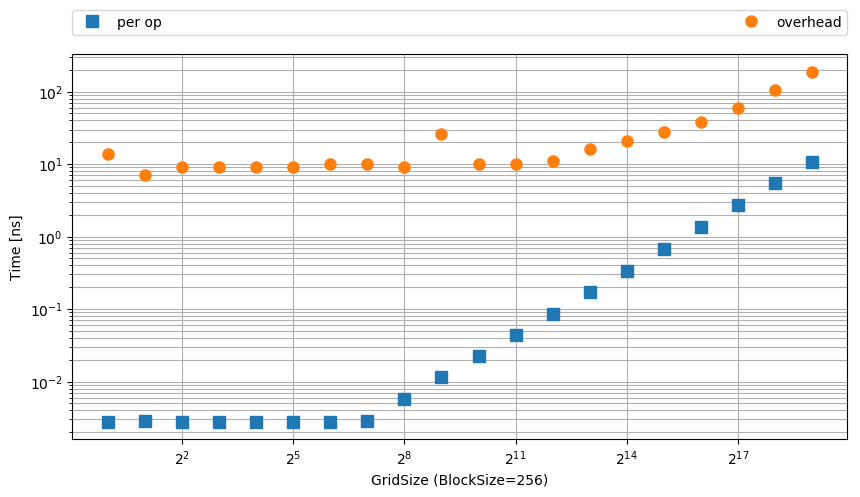
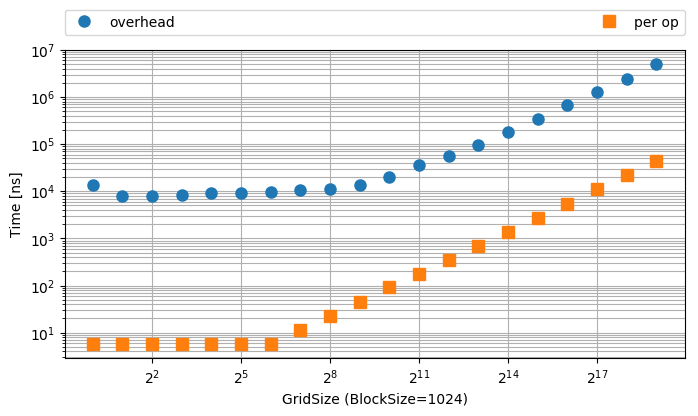
Update result

diff --git a/README.md b/README.md
@@ -11,26 +11,26 @@ make
 ![result](./result.png)
 
 ```
-[GridSize =        1, BlockSize = 256] elapsed time A :      105 [ns], elapsed time B :     3038 [ns], time/op : 2.797127e-03 [ns], launch overhead :  14 [ns]
-[GridSize =        2, BlockSize = 256] elapsed time A :       99 [ns], elapsed time B :     3048 [ns], time/op : 2.812386e-03 [ns], launch overhead :   7 [ns]
-[GridSize =        4, BlockSize = 256] elapsed time A :      100 [ns], elapsed time B :     3038 [ns], time/op : 2.801895e-03 [ns], launch overhead :   9 [ns]
-[GridSize =        8, BlockSize = 256] elapsed time A :      100 [ns], elapsed time B :     3037 [ns], time/op : 2.800941e-03 [ns], launch overhead :   9 [ns]
-[GridSize =       16, BlockSize = 256] elapsed time A :      100 [ns], elapsed time B :     3038 [ns], time/op : 2.801895e-03 [ns], launch overhead :   9 [ns]
-[GridSize =       32, BlockSize = 256] elapsed time A :      100 [ns], elapsed time B :     3038 [ns], time/op : 2.801895e-03 [ns], launch overhead :   9 [ns]
-[GridSize =       64, BlockSize = 256] elapsed time A :      101 [ns], elapsed time B :     3038 [ns], time/op : 2.800941e-03 [ns], launch overhead :  10 [ns]
-[GridSize =      128, BlockSize = 256] elapsed time A :      103 [ns], elapsed time B :     3108 [ns], time/op : 2.865791e-03 [ns], launch overhead :  10 [ns]
-[GridSize =      256, BlockSize = 256] elapsed time A :      196 [ns], elapsed time B :     6201 [ns], time/op : 5.726814e-03 [ns], launch overhead :   9 [ns]
-[GridSize =      512, BlockSize = 256] elapsed time A :      399 [ns], elapsed time B :    12351 [ns], time/op : 1.139832e-02 [ns], launch overhead :  26 [ns]
-[GridSize =     1024, BlockSize = 256] elapsed time A :      756 [ns], elapsed time B :    24639 [ns], time/op : 2.277660e-02 [ns], launch overhead :  10 [ns]
-[GridSize =     2048, BlockSize = 256] elapsed time A :     1469 [ns], elapsed time B :    48169 [ns], time/op : 4.453659e-02 [ns], launch overhead :  10 [ns]
-[GridSize =     4096, BlockSize = 256] elapsed time A :     2846 [ns], elapsed time B :    93580 [ns], time/op : 8.653069e-02 [ns], launch overhead :  11 [ns]
-[GridSize =     8192, BlockSize = 256] elapsed time A :     5611 [ns], elapsed time B :   184660 [ns], time/op : 1.707544e-01 [ns], launch overhead :  16 [ns]
-[GridSize =    16384, BlockSize = 256] elapsed time A :    11141 [ns], elapsed time B :   366986 [ns], time/op : 3.393602e-01 [ns], launch overhead :  21 [ns]
-[GridSize =    32768, BlockSize = 256] elapsed time A :    22245 [ns], elapsed time B :   733195 [ns], time/op : 6.780148e-01 [ns], launch overhead :  28 [ns]
-[GridSize =    65536, BlockSize = 256] elapsed time A :    44448 [ns], elapsed time B :  1465589 [ns], time/op : 1.355306e+00 [ns], launch overhead :  38 [ns]
-[GridSize =   131072, BlockSize = 256] elapsed time A :    88857 [ns], elapsed time B :  2930381 [ns], time/op : 2.709888e+00 [ns], launch overhead :  60 [ns]
-[GridSize =   262144, BlockSize = 256] elapsed time A :   177676 [ns], elapsed time B :  5859977 [ns], time/op : 5.419065e+00 [ns], launch overhead : 105 [ns]
-[GridSize =   524288, BlockSize = 256] elapsed time A :   355263 [ns], elapsed time B : 11717645 [ns], time/op : 1.083601e+01 [ns], launch overhead : 189 [ns]
+[GridSize =        1, BlockSize = 1024] elapsed time A :          200661 [ns], elapsed time B :         6181063 [ns], time/op : 5.703356e+00 [ns], launch overhead :   13774 [ns]
+[GridSize =        2, BlockSize = 1024] elapsed time A :          195098 [ns], elapsed time B :         6180184 [ns], time/op : 5.707823e+00 [ns], launch overhead :    8065 [ns]
+[GridSize =        4, BlockSize = 1024] elapsed time A :          194970 [ns], elapsed time B :         6180778 [ns], time/op : 5.708511e+00 [ns], launch overhead :    7914 [ns]
+[GridSize =        8, BlockSize = 1024] elapsed time A :          195657 [ns], elapsed time B :         6189285 [ns], time/op : 5.715969e+00 [ns], launch overhead :    8357 [ns]
+[GridSize =       16, BlockSize = 1024] elapsed time A :          196238 [ns], elapsed time B :         6185150 [ns], time/op : 5.711472e+00 [ns], launch overhead :    9085 [ns]
+[GridSize =       32, BlockSize = 1024] elapsed time A :          196042 [ns], elapsed time B :         6181559 [ns], time/op : 5.708234e+00 [ns], launch overhead :    8995 [ns]
+[GridSize =       64, BlockSize = 1024] elapsed time A :          196492 [ns], elapsed time B :         6182438 [ns], time/op : 5.708643e+00 [ns], launch overhead :    9432 [ns]
+[GridSize =      128, BlockSize = 1024] elapsed time A :          384410 [ns], elapsed time B :        12353173 [ns], time/op : 1.141430e+01 [ns], launch overhead :   10387 [ns]
+[GridSize =      256, BlockSize = 1024] elapsed time A :          759167 [ns], elapsed time B :        24694637 [ns], time/op : 2.282664e+01 [ns], launch overhead :   11184 [ns]
+[GridSize =      512, BlockSize = 1024] elapsed time A :         1509585 [ns], elapsed time B :        49379229 [ns], time/op : 4.565205e+01 [ns], launch overhead :   13659 [ns]
+[GridSize =     1024, BlockSize = 1024] elapsed time A :         3011799 [ns], elapsed time B :        98746611 [ns], time/op : 9.129983e+01 [ns], launch overhead :   20087 [ns]
+[GridSize =     2048, BlockSize = 1024] elapsed time A :         5832887 [ns], elapsed time B :       191311775 [ns], time/op : 1.768865e+02 [ns], launch overhead :   36672 [ns]
+[GridSize =     4096, BlockSize = 1024] elapsed time A :        11462073 [ns], elapsed time B :       376435911 [ns], time/op : 3.480662e+02 [ns], launch overhead :   56641 [ns]
+[GridSize =     8192, BlockSize = 1024] elapsed time A :        22722002 [ns], elapsed time B :       746687092 [ns], time/op : 6.904269e+02 [ns], launch overhead :   98093 [ns]
+[GridSize =    16384, BlockSize = 1024] elapsed time A :        45246249 [ns], elapsed time B :      1487198773 [ns], time/op : 1.375153e+03 [ns], launch overhead :  185233 [ns]
+[GridSize =    32768, BlockSize = 1024] elapsed time A :        90466719 [ns], elapsed time B :      2974318325 [ns], time/op : 2.750255e+03 [ns], launch overhead :  346357 [ns]
+[GridSize =    65536, BlockSize = 1024] elapsed time A :       180901385 [ns], elapsed time B :      5948503935 [ns], time/op : 5.500414e+03 [ns], launch overhead :  663806 [ns]
+[GridSize =   131072, BlockSize = 1024] elapsed time A :       361761827 [ns], elapsed time B :     11896881687 [ns], time/op : 1.100075e+04 [ns], launch overhead : 1289332 [ns]
+[GridSize =   262144, BlockSize = 1024] elapsed time A :       723408320 [ns], elapsed time B :     23793569391 [ns], time/op : 2.200142e+04 [ns], launch overhead : 2465787 [ns]
+[GridSize =   524288, BlockSize = 1024] elapsed time A :      1446690212 [ns], elapsed time B :     47580931010 [ns], time/op : 4.399704e+04 [ns], launch overhead : 4995188 [ns]
 ```
 
 - Intel Xeon E-2136
